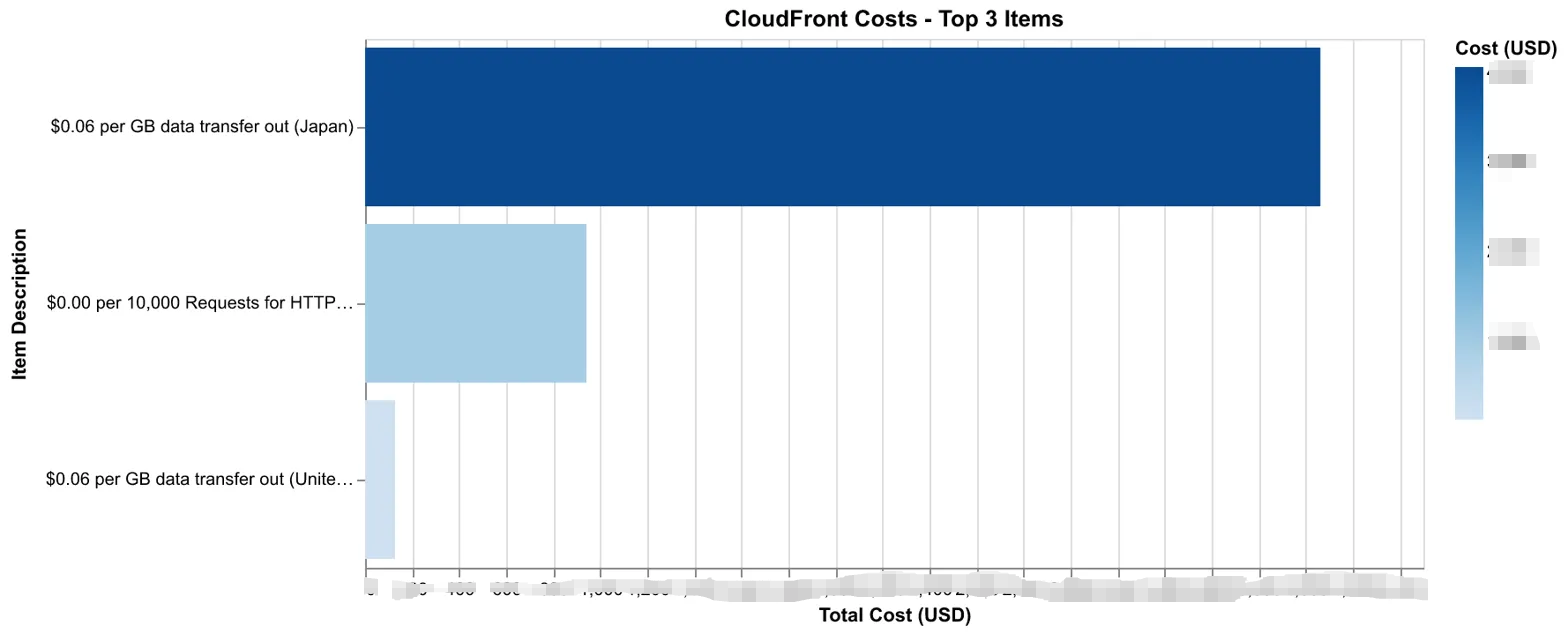
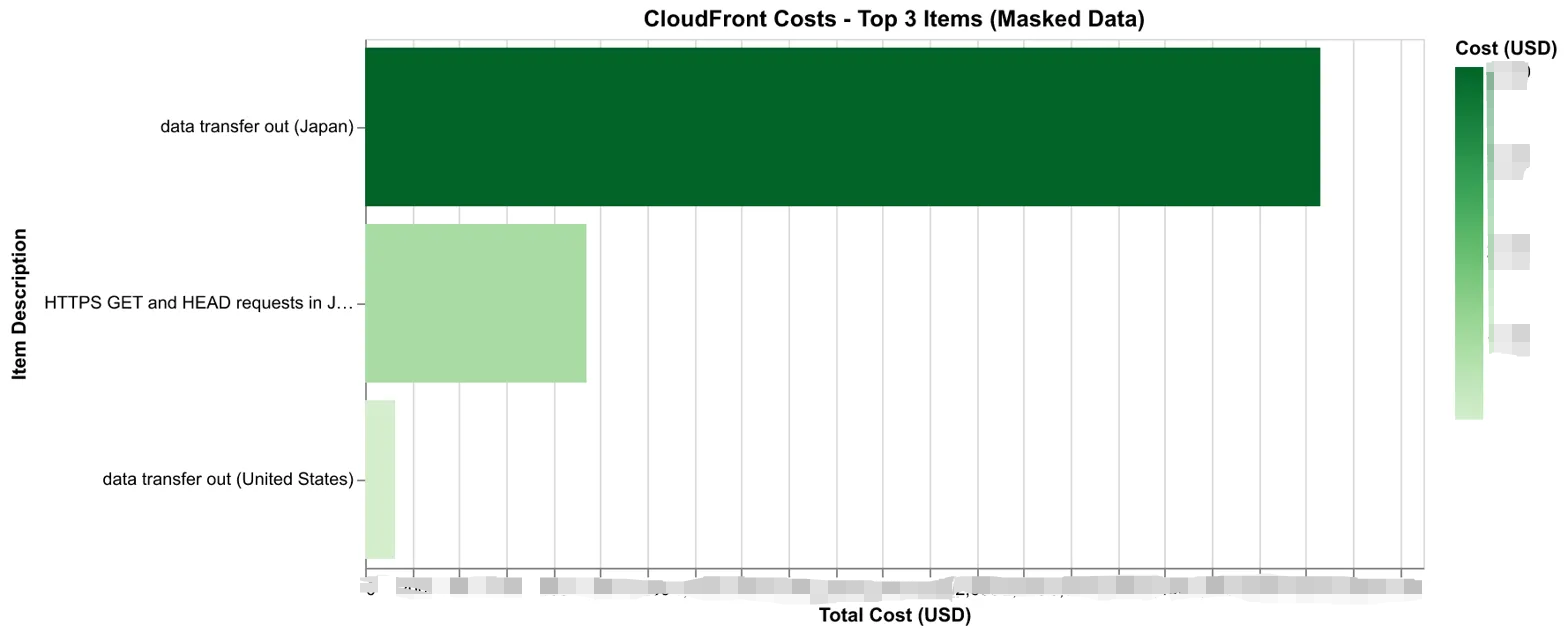
Fix Graph Labels

diff --git a/articles/00-pub-01-mcp-aws-cost-analysis.md b/articles/00-pub-01-mcp-aws-cost-analysis.md
@@ -87,12 +87,12 @@ CloudFrontのコスト内訳詳細
 
 ```csv
 item_description,total_cost
-$0.06 per GB data transfer out (Japan),111.11111
-"$0.00 per 10,000 Requests for HTTPS GET and HEAD requests in Japan",111.11111
+data transfer out (Japan),111.11111
+"HTTPS GET and HEAD requests in Japan",111.11111
 Tax for product code AmazonCloudFront,111.11111
-$0.06 per GB data transfer out (United States),111.11111
-$0.120 per GB - first 10 TB / month data transfer out,111.11111
-"$0.00 per 10,000 Requests for HTTPS GET and HEAD requests in United States",111.11111
+data transfer out (United States),111.11111
+$0.xxx per GB - first 10 TB / month data transfer out,111.11111
+"$0.xx per 10,000 Requests for HTTPS GET and HEAD requests in United States",111.11111
 ```
 
 ※ 他サービスの内訳は割愛
@@ -150,13 +150,13 @@ Reserved Instanceを除いたAWSサービスの利用状況を分析し、上位
 
 #### 3. AmazonRDS ($3,333.00)
 **主なコスト要因:**
-- Aurora MySQL r6g.4xlarge: $1,799.82 (54.0%)
+- Aurora MySQL: $1,799.82 (54.0%)
 - スナップショットエクスポート: $339.97 (10.2%)
 - Aurora Serverless v2: $313.30 (9.4%)
 - バックアップストレージ: $273.31 (8.2%)
 
 **最適化提案:**
-- Reserved Instanceへの移行（r6g.4xlarge）
+- Reserved Instanceへの移行（Aurora MySQL）
 - 不要なスナップショットの削除
 - バックアップ保持期間の見直し
 - Serverless v2の設定最適化
